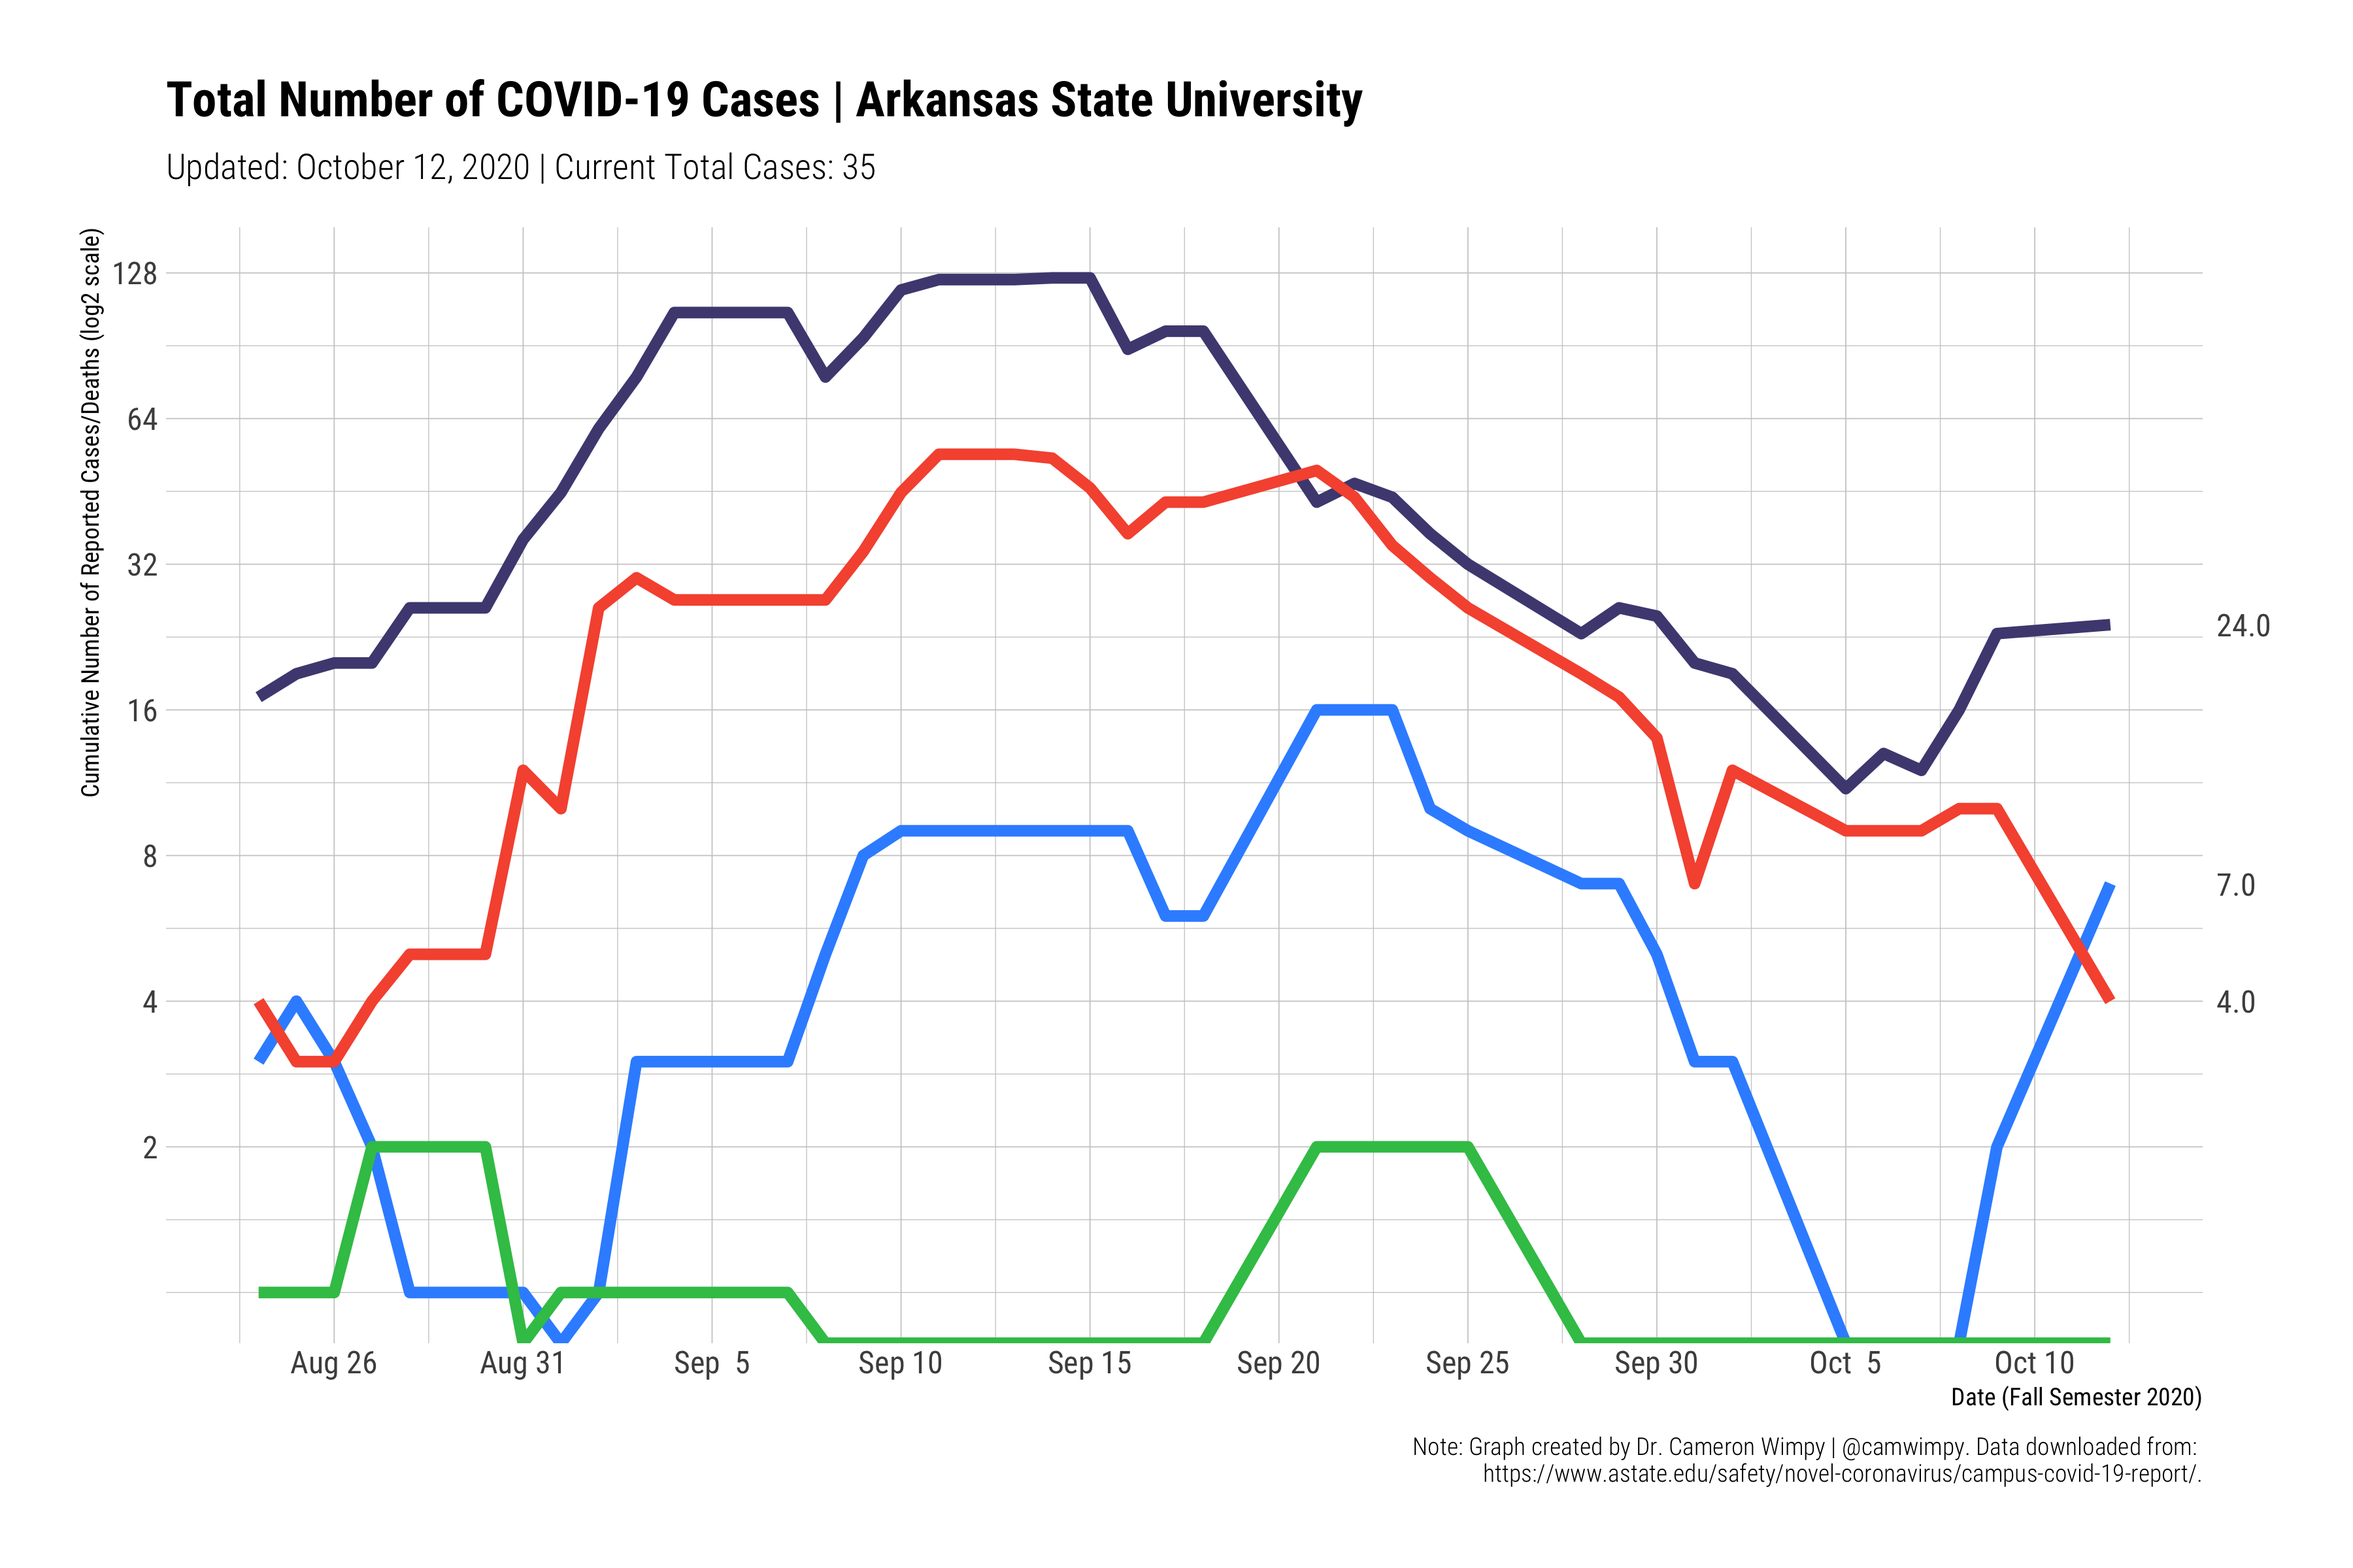
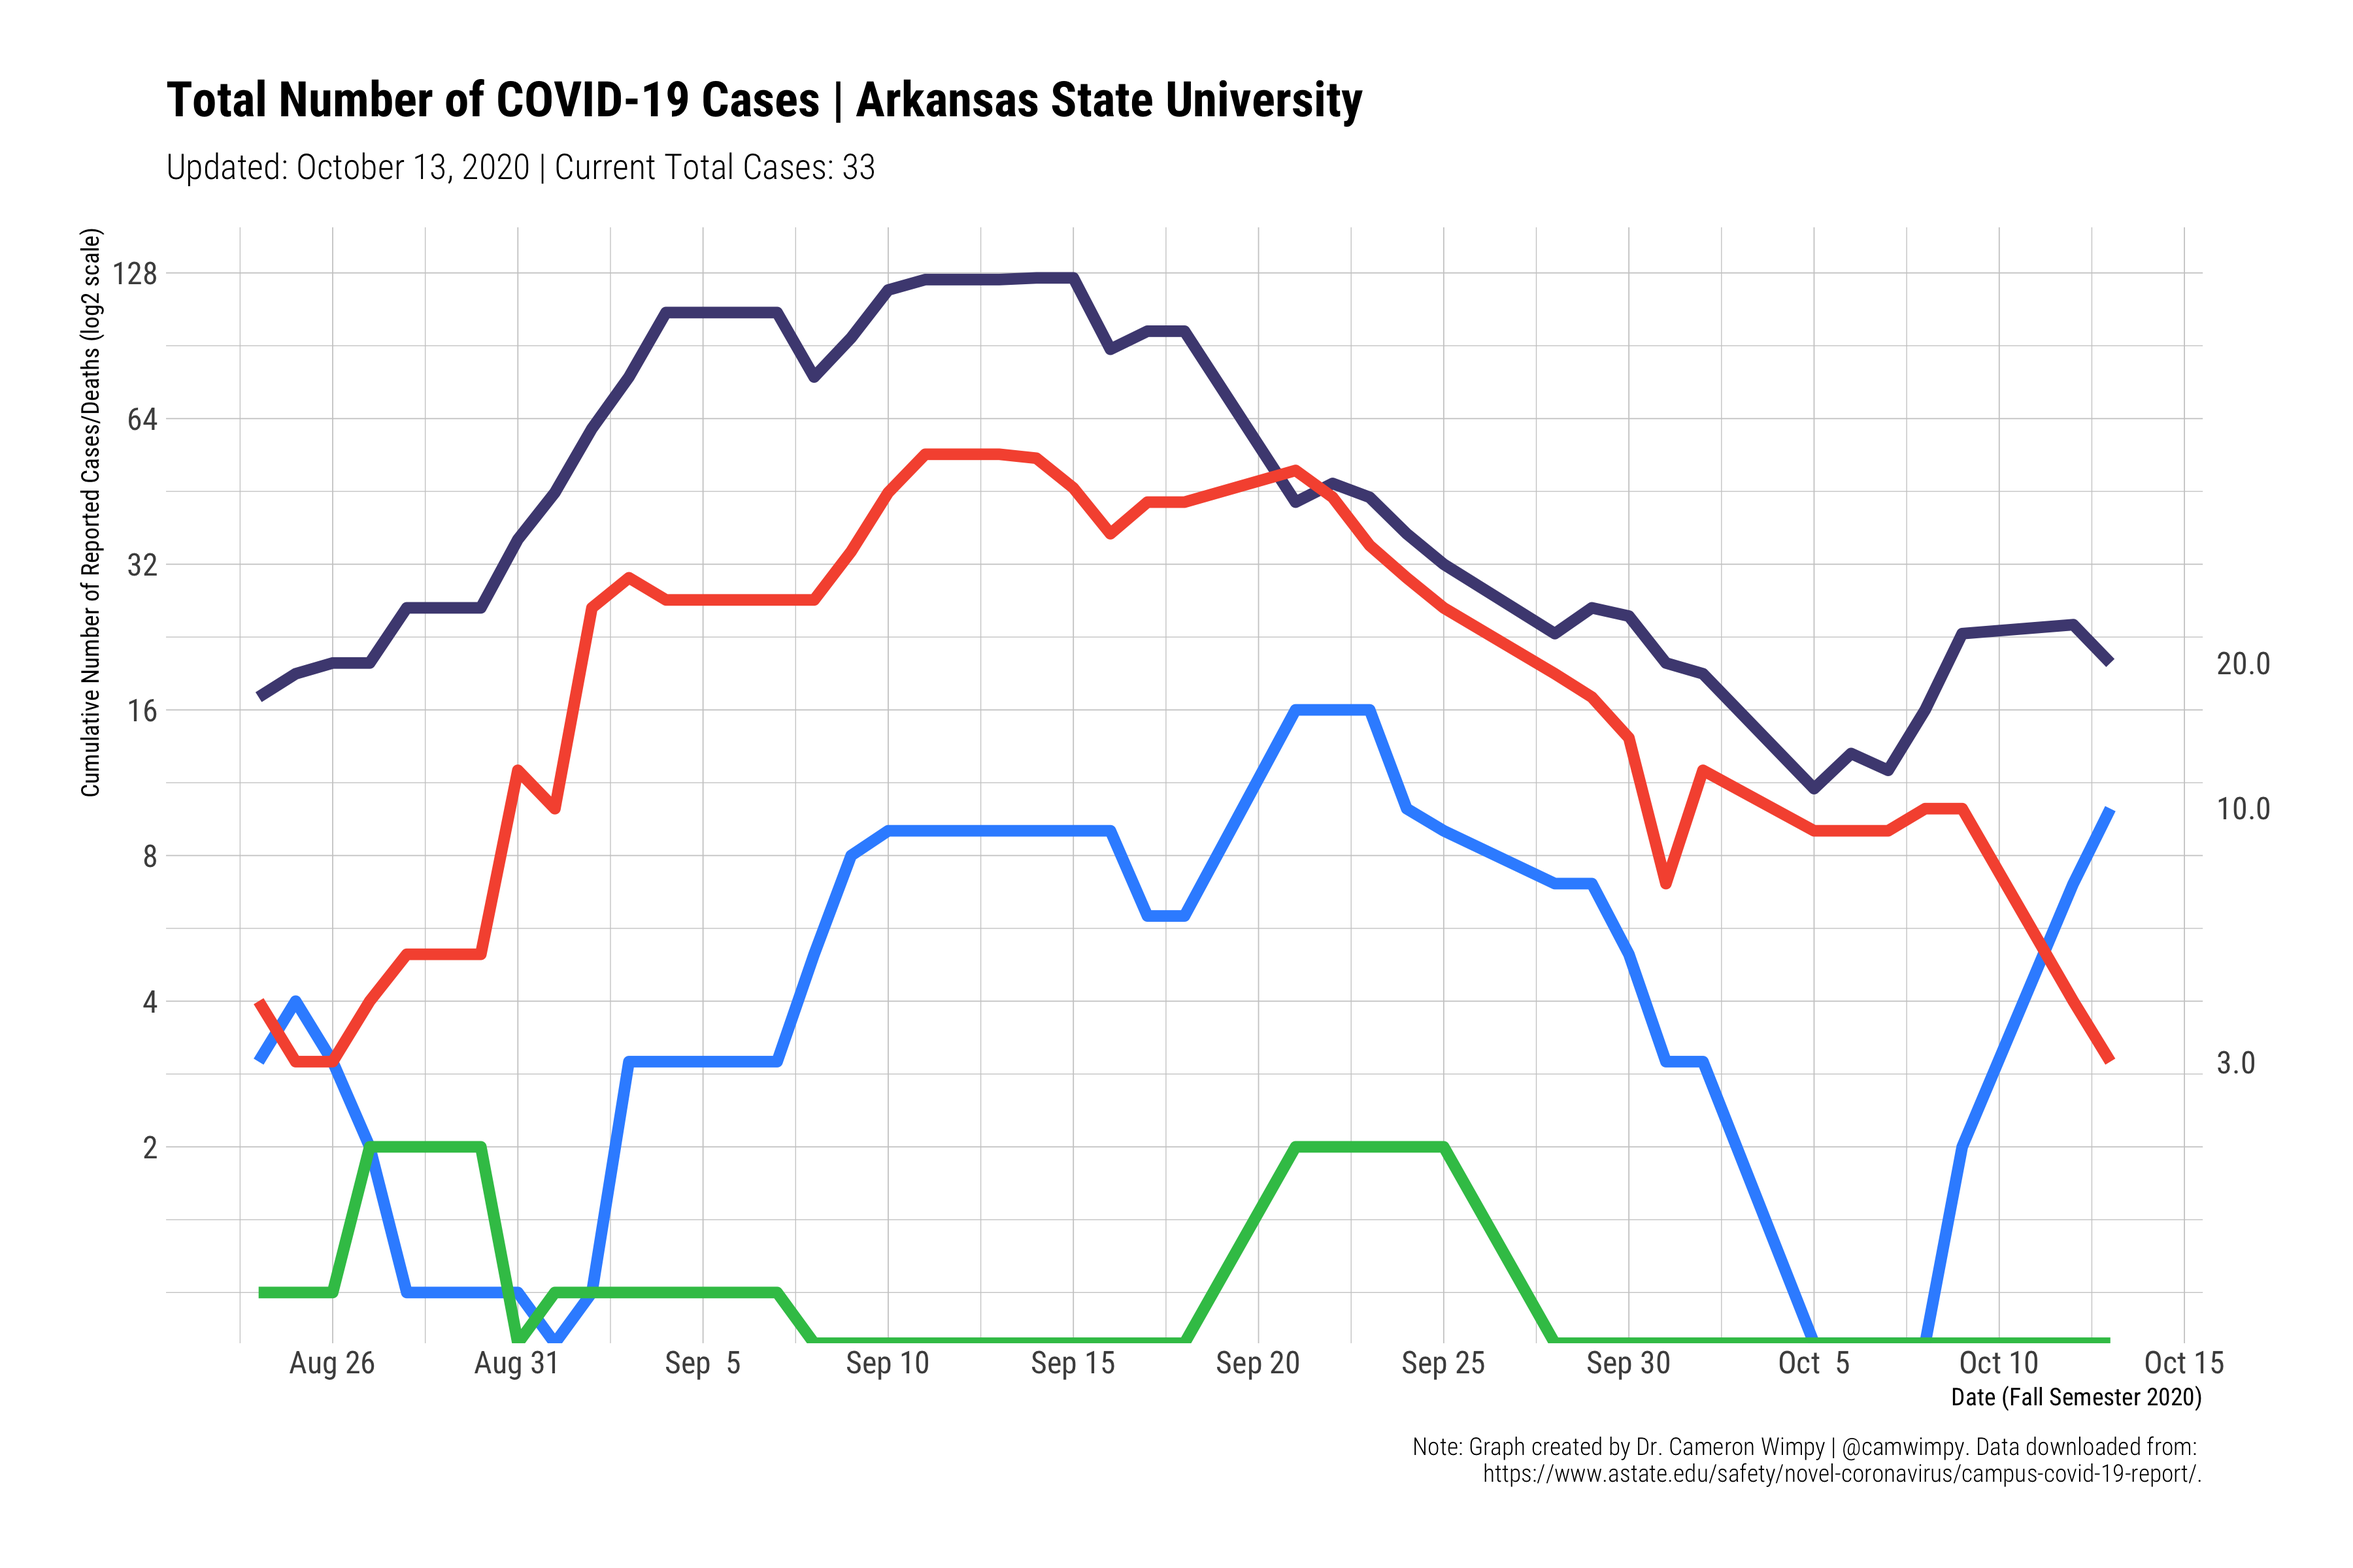
update for Oct 13

diff --git a/README.md b/README.md
@@ -10,4 +10,4 @@ This repo is dedicated to making graphs to track the Covid-19 outbreak at Arkans
 
 ![](images/bar.png)
 
-## Updated: October 12, 2020
+## Updated: October 13, 2020
